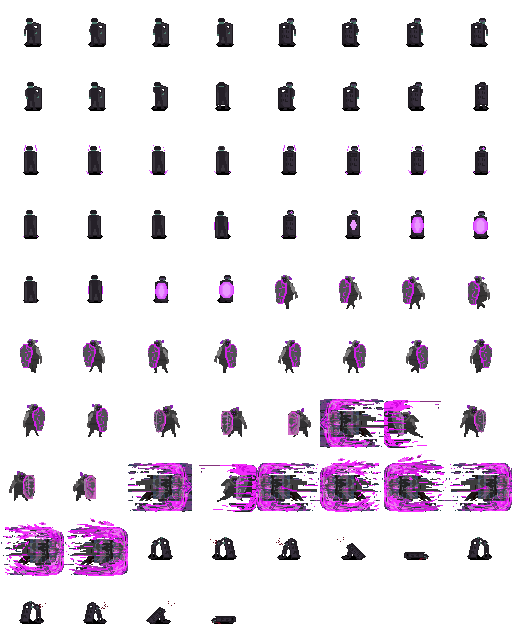
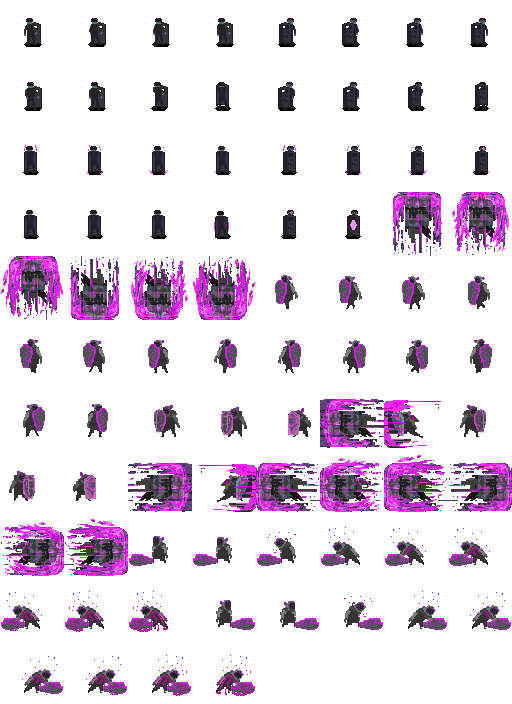
El puto charger de los cojones done 🛡💨

diff --git a/HolaSDL/ChargerAnimationComponent.cpp b/HolaSDL/ChargerAnimationComponent.cpp
@@ -42,10 +42,10 @@ void ChargerAnimationComponent::receiveMessage(Message* msg)
 		gameObject->changeCurrentAnimation("RUNRIGHT");
 		break;
 	case RUN_TOP:
-		gameObject->changeCurrentAnimation("RUNTOP");
+		gameObject->changeCurrentAnimation("RUNRIGHT");
 		break;
 	case RUN_BOT:
-		gameObject->changeCurrentAnimation("RUNBOT");
+		gameObject->changeCurrentAnimation("RUNLEFT");
 		break;
 
 	case CHARGE_LEFT:
@@ -76,12 +76,12 @@ void ChargerAnimationComponent::receiveMessage(Message* msg)
 		chargeTimer->restart();
 		break;
 	case PRECHARGE_TOP:
-		gameObject->changeCurrentAnimation("PRECHARGETOP");
+		gameObject->changeCurrentAnimation("PRECHARGERIGHT");
 		gameObject->getCurrentAnimation()->startAnimation();
 		chargeTimer->restart();
 		break;
 	case PRECHARGE_BOT:
-		gameObject->changeCurrentAnimation("PRECHARGEBOT");
+		gameObject->changeCurrentAnimation("PRECHARGELEFT");
 		gameObject->getCurrentAnimation()->startAnimation();
 		chargeTimer->restart();
 		break;
